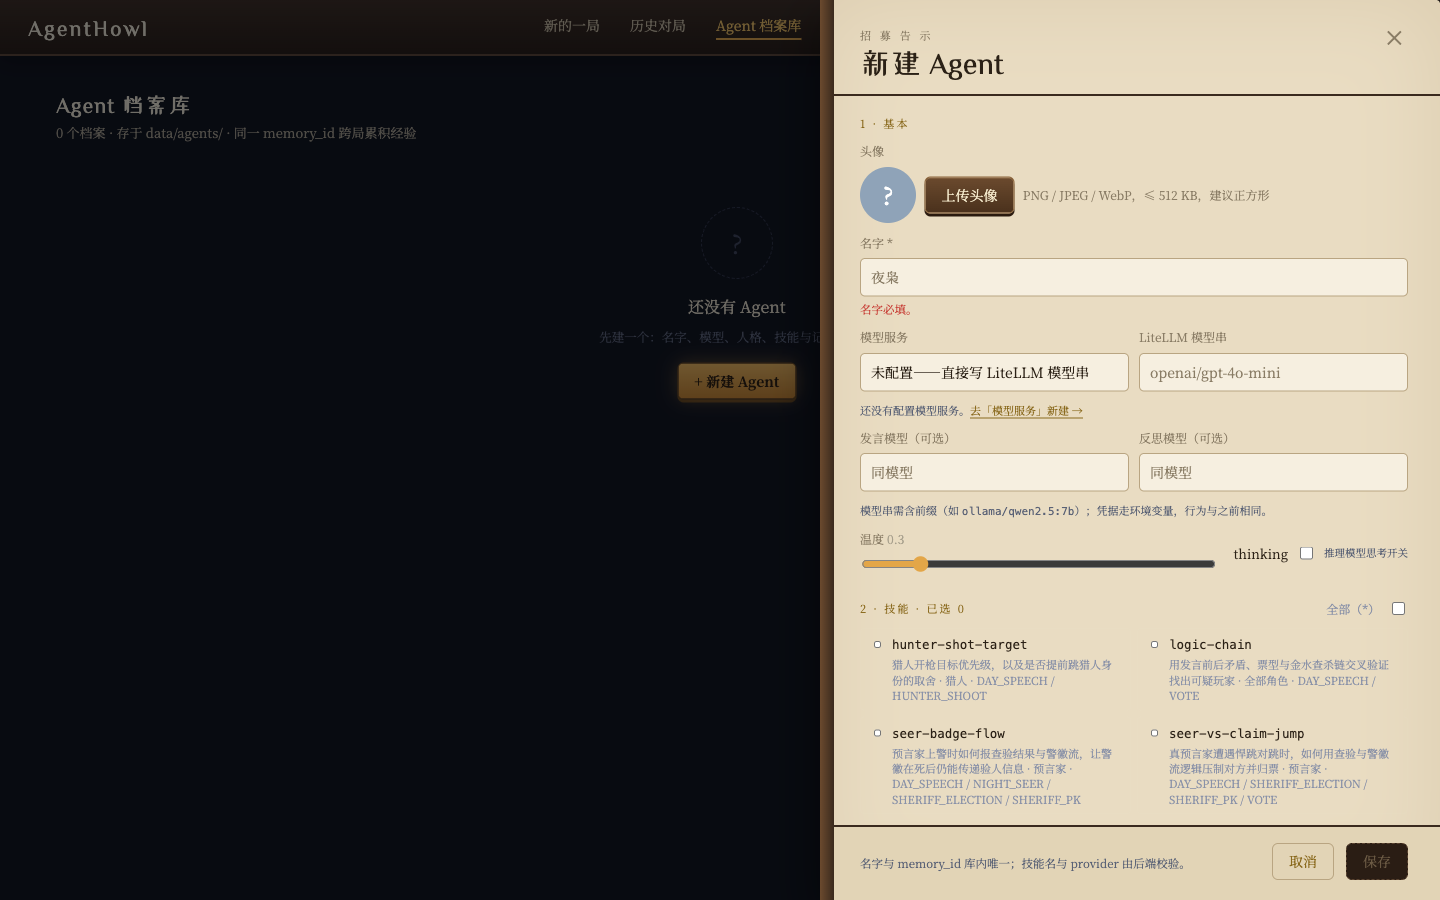
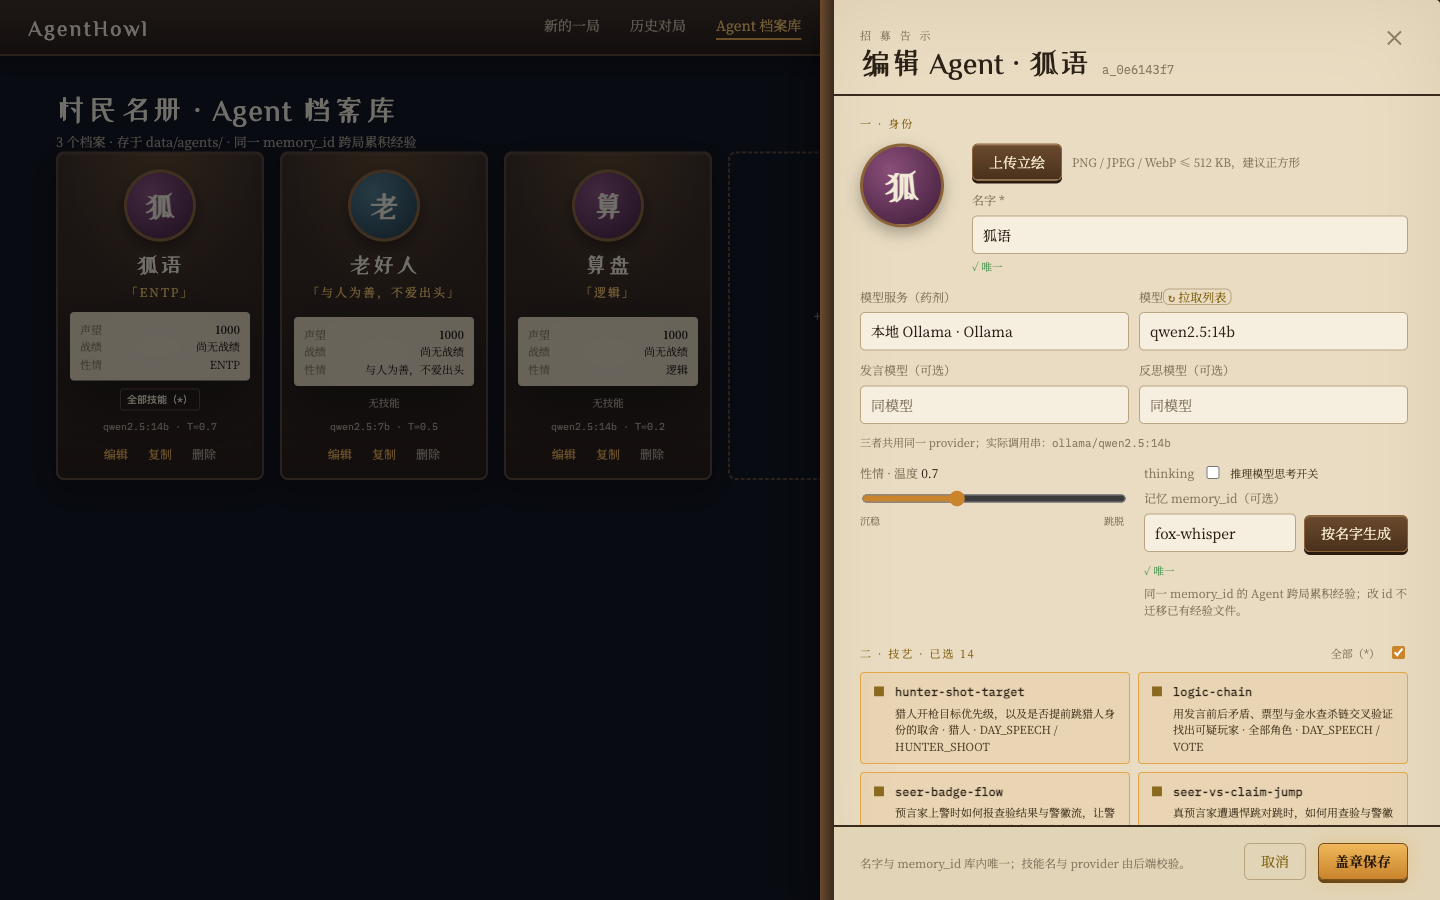
test(e2e): 其余页面截图脚本 + PR ④ 截图基线

diff --git a/docs/design/ui-gamified-2026-10-28/README.md b/docs/design/ui-gamified-2026-10-28/README.md
@@ -1,4 +1,4 @@
-# UI 改版截图基线（2026-10-28，PR ① 视觉基础 + PR ② 对局页 + PR ③ 大厅）
+# UI 改版截图基线（2026-10-28，PR ① 视觉基础 + PR ② 对局页 + PR ③ 大厅 + PR ④ 其余页面）
 
 对照设计稿：`docs/design/gamified-2026-10-27/options/`。桌面 1440×900，手机 390×844。
 后续 PR（对局页、大厅、其余页面、卡牌皮肤）完成后在本目录追加对应截图。
@@ -10,8 +10,8 @@
 | `01-auth-verify.png` | 验证码「对暗号」 | 1b |
 | `01-auth-login-390.png` | 手机宽登录（无横向滚动） | — |
 | `02-nav-lobby.png` | 木栏导航 + 大厅（PR ① 时的旧大厅，PR ③ 见下） | 1c 顶栏 |
-| `06-history-share-dialog.png` | 「传 · 分享对局」木牌对话框（历史页本体待 PR ④） | 4f |
-| `07-agents-editor.png` | 羊皮纸「招募告示」抽屉壳（表单内容待 PR ④） | 4e |
+| `06-history-share-dialog.png` | 「传 · 分享对局」木牌对话框（历史页本体见 PR ④） | 4f |
+| `07-agents-editor.png` | 羊皮纸「招募告示」抽屉（PR ④ 重拍：四节表单） | 4e |
 | `07-agents-editor-personality.png` | 同一抽屉滚到「3 · 人格」：羊皮纸上的分段选择与 kicker 可读性 | 4e |
 | `09-error-not-found.png` | 4404「这局已随风散去」 | 4f |
 | `09-error-forbidden.png` | 匿名 4401「村口有人守着」 | 4f |
@@ -50,3 +50,16 @@
 | `02-lobby-3-scroll.png` | 第 3 步：顶部横向进度、640px 羊皮纸「开 局 卷 轴」（座位签 / 时限「秒 · 一根蜡烛」）、两处「点燃篝火 · 开局」 | 4a |
 | `02-lobby-1-preset-1100.png` / `02-lobby-2-seats-1100.png` | 1100 宽（≤1280 断点）：剧本牌单列；档案列上移成整行，圆桌保持 480px | — |
 | `02-lobby-2-seats-390.png` | 390 宽：圆桌与迷你档案卡隐藏，`SeatAssignment` 列表回退 | — |
+
+## PR ④ 其余页面
+
+截图来自 `frontend/e2e/pages-shots.mjs`（登录 `e2e_player`，空库时临时造 3 个档案 + 1 个 provider，截完删除）。
+
+| 文件 | 画面 | 设计稿 |
+|---|---|---|
+| `06-history.png` | 「村志 · 历史对局」羊皮纸账本：时间 + mono id、剧本、状态签、阵营色胜方、座位省略、木签回放 / 描边分享 / 红字删除 | 1j |
+| `07-agents.png` | 「村民名册 · Agent 档案库」：声望 / 最近更新分段、导入 / 导出、篝火「+ 招募」、角色牌（首字渐变圆、金色人格行、羊皮纸三行、技能签、模型行） | 1k |
+| `07-agents-editor.png` | 「招募告示」抽屉：一 · 身份（84px 立绘 / 名字 / 药剂下拉 / 温度「沉稳 — 跳脱」/ thinking / 记忆）、二 · 技艺 技能卡 ■、盖章保存 | 4e |
+| `08-providers.png` | 「炼金工坊 · 模型服务」药剂木牌：药剂圆、kind 行、测试状态、羊皮纸信息条、引用数、虚线「+ 新建药剂（provider）」 | 1l 左 |
+| `08-admin-users.png` | 「长老名册 · 用户管理」羊皮纸表：用户名 / mono 邮箱 / 身份着色 / 状态 / 操作（管理员会话截取） | 1l 右 |
+| `07-agents-390.png` | 390 宽档案库：两列角色牌 | — |

diff --git a/frontend/e2e/README.md b/frontend/e2e/README.md
@@ -8,12 +8,15 @@
 | `play.mjs` | 真人坐 0 号 + 随机 bot 打完一整局：登录 → 建局 → 按角色策略行动（狼刀 / 查验 / 救毒 / 守护 / 开枪 / 上警 / 投票 / 遗言 / 自爆）→ 赛后检查；每局输出一行 `SUMMARY` JSON，`finished: true` 且 `rejected` 为空即通过 |
 | `screens.mjs` | 用一局已结束的对局，以上帝 / 观众视角打开回放，拖到夜晚 / 竞选 / 发言 / 投票 / 终局截图，并截 1100 / 390 宽 |
 | `lobby-shots.mjs` | 走完大厅三步（不开局）截第 1 / 2 / 3 步与打开木牌菜单的第 2 步，再截 390 宽的列表回退（UI 改版 PR ③） |
+| `pages-shots.mjs` | 历史 / 档案库（含打开编辑器）/ 模型服务 / 用户管理（需管理员会话 `AH_SESSION` + `PAGES=admin`）截图；空库时临时造数据并清理（UI 改版 PR ④） |
 
 ```bash
 cd frontend/e2e
 AH_BASE_URL=http://localhost:5173 AH_USER=e2e_player AH_PASS=… AH_SEED=2 RUN=wolf SPEECH_SEC=15 ACTION_SEC=15 node play.mjs
 AH_BASE_URL=http://localhost:5173 AH_USER=e2e_player AH_PASS=… AH_GAME=g_xxxxxxxx SHOT_DIR=../../docs/design/ui-gamified-2026-10-28 node screens.mjs
 AH_BASE_URL=http://localhost:5173 AH_USER=e2e_player AH_PASS=… SHOT_DIR=../../docs/design/ui-gamified-2026-10-28 node lobby-shots.mjs
+AH_BASE_URL=http://localhost:5173 AH_USER=e2e_player AH_PASS=… SHOT_DIR=../../docs/design/ui-gamified-2026-10-28 node pages-shots.mjs
+AH_BASE_URL=http://localhost:5173 AH_SESSION=<管理员会话 cookie> PAGES=admin SHOT_DIR=… node pages-shots.mjs
 ```
 
 大厅段（PR ③ 起）只靠这些控件：剧本牌文本 → `#lobby-seed` → 「下一步 · 分配座位 →」→ `button[aria-label="入座 0号"]` →
